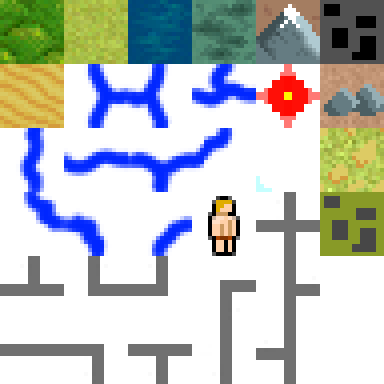
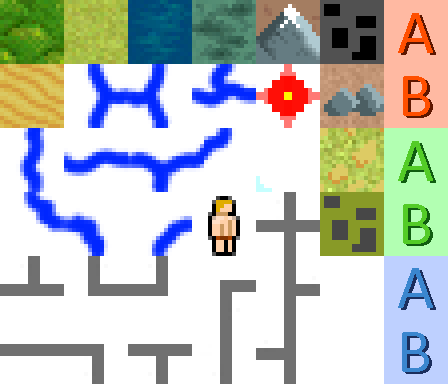
habitat skel

diff --git a/src/main/kotlin/ui/modals/MapModal.kt b/src/main/kotlin/ui/modals/MapModal.kt
@@ -9,6 +9,7 @@ import ui.input.Mouse
 import util.*
 import world.gen.Metamap
 import world.gen.biomes.Ocean
+import world.gen.habitats.Blank
 import java.lang.Integer.max
 import java.lang.Integer.min
 
@@ -21,6 +22,8 @@ class MapModal : Modal(1200, 900, "- yOUr tRAvELs -") {
     var cellSize = 20
     var mapx = 0
     var mapy = 0
+
+    var showHabitats = false
 
     override fun newThingBatch() = null
     override fun newActorBatch() = null
@@ -42,6 +45,8 @@ class MapModal : Modal(1200, 900, "- yOUr tRAvELs -") {
         } else if (keycode == Input.Keys.EQUALS) {
             cellSize = min(20, cellSize + 2)
             centerView()
+        } else if (keycode == Input.Keys.F1) {
+            showHabitats = !showHabitats
         }
         else when (Keyboard.moveKeys[keycode]) {
             NORTH -> mapy--
@@ -136,6 +141,9 @@ class MapModal : Modal(1200, 900, "- yOUr tRAvELs -") {
                 }
                 if (x+mapx == playerX && y+mapy == playerY) {
                     batch.addPixelQuad(px0, py0, px1, py1, Screen.mapBatch.getTextureIndex(Glyph.MAP_PLAYER))
+                }
+                if (showHabitats && meta.habitat != Blank) {
+                    batch.addPixelQuad(px0, py0, px1, py1, Screen.mapBatch.getTextureIndex(meta.habitat.mapGlyph))
                 }
             }
         }

diff --git a/src/main/kotlin/world/gen/Metamap.kt b/src/main/kotlin/world/gen/Metamap.kt
@@ -12,6 +12,9 @@ import world.RiverExit
 import world.RoadExit
 import world.gen.biomes.Biome
 import world.gen.biomes.*
+import world.gen.habitats.ArcticA
+import world.gen.habitats.TemperateA
+import world.gen.habitats.TropicalA
 import world.level.CHUNK_SIZE
 import java.lang.Integer.max
 import java.lang.Integer.min
@@ -46,6 +49,8 @@ object Metamap {
     val bigCityFraction = 0.2f
     val ruinFalloff = 14f
     val ruinsMax = 5f
+    val habitatArcticY = 50
+    val habitatTropicY = 150
 
     val outOfBoundsMeta = ChunkMeta(biome = Ocean)
 
@@ -552,6 +557,17 @@ object Metamap {
                     else -> 0
                 }
                 cell.ruinedBuildings = max(cell.ruinedBuildings, 0)
+            }
+
+            // Distribute habitats
+            forEachMeta { x,y,cell ->
+                if (cell.biome != Ocean) {
+                    val arcticY = habitatArcticY + NoisePatches.get("metaVariance2", x, 0) * 40 - 20
+                    val tropicY = habitatTropicY + NoisePatches.get("metaVariance2", x, 100) * 40 - 20
+                    if (y < arcticY) cell.habitat = ArcticA
+                    else if (y > tropicY) cell.habitat = TropicalA
+                    else cell.habitat = TemperateA
+                }
             }
 
             // Name contiguous features

diff --git a/src/main/kotlin/world/gen/ChunkMeta.kt b/src/main/kotlin/world/gen/ChunkMeta.kt
@@ -6,6 +6,7 @@ import util.XY
 import world.gen.NoisePatches
 import world.gen.biomes.Biome
 import world.gen.biomes.Blank
+import world.gen.habitats.Habitat
 
 // Metadata about how to construct a chunk.  Generated at worldgen.
 
@@ -20,6 +21,7 @@ class ChunkMeta(
     val hasLake: Boolean = false,
     val coasts: MutableList<XY> = mutableListOf(),
     val biome: Biome = Blank,
+    val habitat: Habitat = world.gen.habitats.Blank,
     val roadExits: MutableList<RoadExit> = mutableListOf(),
     val variance: Float = 0f,
     var hasCity: Boolean = false,
@@ -57,6 +59,7 @@ class ChunkScratch(
     var dryness = -1
     var coasts: MutableList<XY> = mutableListOf()
     var biome: Biome = Blank
+    var habitat: Habitat = world.gen.habitats.Blank
     var roadExits: MutableList<RoadExit> = mutableListOf()
     var hasCity = false
     var cityDistance = 0f
@@ -71,6 +74,7 @@ class ChunkScratch(
         hasLake = hasLake,
         coasts = coasts,
         biome = biome,
+        habitat = habitat,
         variance = NoisePatches.get("metaVariance",x,y).toFloat(),
         roadExits = roadExits,
         hasCity = hasCity,

diff --git a/src/main/kotlin/world/gen/cartos/WorldCarto.kt b/src/main/kotlin/world/gen/cartos/WorldCarto.kt
@@ -361,10 +361,12 @@ class WorldCarto(
     }
 
     private fun drawRiver(start: RiverExit, end: RiverExit) {
+        val startWidth = if (start.edge in meta.coasts) start.width * 2f + 3f else start.width.toFloat()
+        val endWidth = if (end.edge in meta.coasts) end.width * 2f + 3f else end.width.toFloat()
         var t = 0f
-        var width = start.width.toFloat()
+        var width = startWidth
         val step = 0.02f
-        val widthStep = (end.width - start.width) * step
+        val widthStep = (endWidth - startWidth) * step
         while (t < 1f) {
             val p = getBezier(t, start.pos.toXYf(), start.control.toXYf(), end.control.toXYf(), end.pos.toXYf())
             carveRoom(Rect((x0 + p.x - width/2).toInt(), (y0 + p.y - width/2).toInt(),

diff --git a/src/main/kotlin/world/gen/habitats/Habitat.kt b/src/main/kotlin/world/gen/habitats/Habitat.kt
@@ -1,0 +1,48 @@
+package world.gen.habitats
+
+import kotlinx.serialization.Serializable
+import render.tilesets.Glyph
+
+@Serializable
+sealed class Habitat(
+    val mapGlyph: Glyph,
+) {
+
+
+
+}
+
+@Serializable
+object Blank : Habitat(
+    Glyph.BLANK
+)
+
+@Serializable
+object ArcticA : Habitat(
+    Glyph.MAP_HABITAT_COLD_A
+)
+
+@Serializable
+object ArcticB : Habitat(
+    Glyph.MAP_HABITAT_COLD_B
+)
+
+@Serializable
+object TemperateA : Habitat(
+    Glyph.MAP_HABITAT_TEMP_A
+)
+
+@Serializable
+object TemperateB : Habitat(
+    Glyph.MAP_HABITAT_TEMP_B
+)
+
+@Serializable
+object TropicalA: Habitat(
+    Glyph.MAP_HABITAT_HOT_A
+)
+
+@Serializable
+object TropicalB : Habitat(
+    Glyph.MAP_HABITAT_HOT_B
+)

diff --git a/src/main/kotlin/render/tilesets/MapTileSet.kt b/src/main/kotlin/render/tilesets/MapTileSet.kt
@@ -40,6 +40,13 @@ fun MapTileSet() =
         setTile(Glyph.MAP_ROAD_SE, SimpleTile(this, 3, 4))
         setTile(Glyph.MAP_ROAD_NSEW, SimpleTile(this, 4, 3))
 
+        setTile(Glyph.MAP_HABITAT_HOT_A, SimpleTile(this, 6, 0))
+        setTile(Glyph.MAP_HABITAT_HOT_B, SimpleTile(this, 6, 1))
+        setTile(Glyph.MAP_HABITAT_TEMP_A, SimpleTile(this, 6, 2))
+        setTile(Glyph.MAP_HABITAT_TEMP_B, SimpleTile(this, 6, 3))
+        setTile(Glyph.MAP_HABITAT_COLD_A, SimpleTile(this, 6, 4))
+        setTile(Glyph.MAP_HABITAT_COLD_B, SimpleTile(this, 6, 5))
+
         setTile(Glyph.MAP_PLAYER, SimpleTile(this, 3, 3))
         setTile(Glyph.MAP_MARKER, SimpleTile(this, 4, 1))
     }

diff --git a/src/main/kotlin/ui/modals/CreditsModal.kt b/src/main/kotlin/ui/modals/CreditsModal.kt
@@ -20,7 +20,7 @@ class CreditsModal : Modal(450, 180, "ThUNdARR  the  BARBARIAN", Position.CENTER
     }
 
     override fun drawModalText() {
-        drawString("a homofagge production", 132, 70)
+        drawString("a dlfsystems production", 132, 70)
     }
 
     override fun onMouseClicked(screenX: Int, screenY: Int, button: Mouse.Button): Boolean {

diff --git a/src/main/kotlin/render/tilesets/TerrainTileSet.kt b/src/main/kotlin/render/tilesets/TerrainTileSet.kt
@@ -136,8 +136,8 @@ fun TerrainTileSet() =
         setTile(Glyph.PORTAL_DOOR, SimpleTile(this, 3, 2))
 
         setTile(Glyph.PAVEMENT, VariantsTile(this).apply {
-            add(0.5f, 8, 7)
-            add(0.5f, 9, 7)
+            add(0.5f, 8, 6)
+            add(0.5f, 9, 6)
         })
 
         setTile(Glyph.HIGHWAY_H, HighwayTile(this).apply {

diff --git a/src/main/kotlin/world/gen/biomes/Biome.kt b/src/main/kotlin/world/gen/biomes/Biome.kt
@@ -283,7 +283,7 @@ object Ruins : Biome(
     }
 
     private fun digLake(carto: WorldCarto, x0: Int, y0: Int, x1: Int, y1: Int) {
-        val blob = carto.growBlob(x1-x0, y1-y0)
+        val blob = carto.growOblong(x1-x0, y1-y0)
         carto.printGrid(blob, x0 + carto.x0, y0 + carto.y0, GENERIC_WATER)
     }
 }

diff --git a/src/main/kotlin/render/tilesets/Glyph.kt b/src/main/kotlin/render/tilesets/Glyph.kt
@@ -179,6 +179,12 @@ enum class Glyph {
     MAP_SCRUB,
     MAP_RUINS,
     MAP_SUBURB,
+    MAP_HABITAT_HOT_A,
+    MAP_HABITAT_HOT_B,
+    MAP_HABITAT_TEMP_A,
+    MAP_HABITAT_TEMP_B,
+    MAP_HABITAT_COLD_A,
+    MAP_HABITAT_COLD_B,
     MAP_RIVER_NSE,
     MAP_RIVER_NSW,
     MAP_RIVER_NWE,

diff --git a/src/main/kotlin/render/tilesets/SpriteSheets.kt b/src/main/kotlin/render/tilesets/SpriteSheets.kt
@@ -26,7 +26,7 @@ object SpriteSheets {
             "sheets/tiles_ui.png", 6, 5, Texture.TextureFilter.Nearest
         ),
         MapSprites(
-            "sheets/tiles_map.png", 6, 6, Screen.textureFilter
+            "sheets/tiles_map.png", 7, 6, Screen.textureFilter
         )
     }
 
